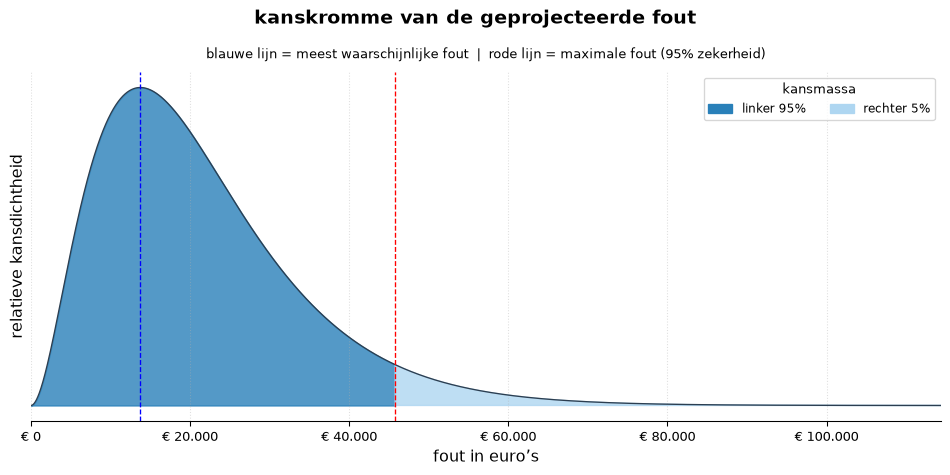
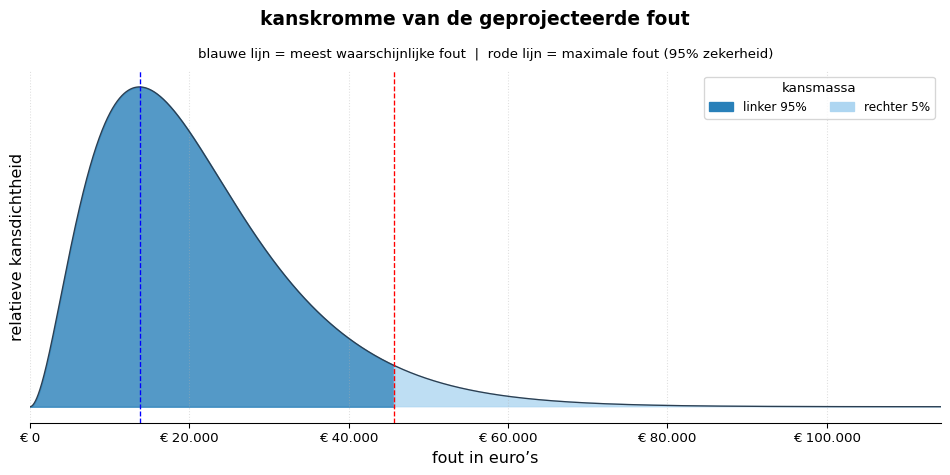
Extraheer n_klant_k_klant_SSO als herbruikbare helper
max_fout_benaderd_SSO berekende de effectieve steekproefomvang/aantal
fouten bij de klant (n_klant, k_klant) voorheen inline. Dit zet die
formule om in een losse, herbruikbare helperfunctie met eigen
invoervalidatie, zodat andere SSO-functies (zoals de nieuwe
gestratificeerde brug) dezelfde pooling-formule kunnen hergebruiken.

diff --git a/auditstat/sso/n_klant_k_klant_SSO.py b/auditstat/sso/n_klant_k_klant_SSO.py
@@ -1,0 +1,38 @@
+def n_klant_k_klant_SSO(n, k, N_klant):
+    """
+    Herleidt een effectieve steekproefomvang (n_klant) en een effectief
+    aantal fouten (k_klant) bij de klant, op basis van een steekproef bij
+    de SSO (n, k) en de omvang van de klantpopulatie (N_klant).
+
+    Dit combineert de bewijskracht van de SSO-steekproef met de omvang
+    van de klantpopulatie tot een enkele, kleinere effectieve steekproef
+    bij de klant zelf (n_klant <= min(n, N_klant)), met k_klant naar rato
+    verdeeld. Dit is dezelfde benadering als gebruikt in
+    max_fout_benaderd_SSO.
+
+    Parameters
+    ----------
+    n : int of float
+        Steekproefomvang bij de SSO.
+    k : int of float
+        Aantal fouten in de steekproef bij de SSO.
+    N_klant : int of float
+        Aantal posten bij de klant.
+
+    Returns
+    -------
+    tuple[float, float]
+        (n_klant, k_klant)
+    """
+    if n <= 0:
+        raise ValueError("n moet groter zijn dan 0.")
+    if N_klant <= 0:
+        raise ValueError("N_klant moet groter zijn dan 0.")
+    if k < 0:
+        raise ValueError("k mag niet negatief zijn.")
+    if k > n:
+        raise ValueError("k mag niet groter zijn dan n.")
+
+    n_klant = (n * N_klant) / (n + N_klant)
+    k_klant = (n_klant / n) * k
+    return n_klant, k_klant

diff --git a/tests/sso/test_n_klant_k_klant_SSO.py b/tests/sso/test_n_klant_k_klant_SSO.py
@@ -1,0 +1,36 @@
+import unittest
+
+from auditstat.sso.n_klant_k_klant_SSO import n_klant_k_klant_SSO
+
+
+class TestNKlantKKlantSSO(unittest.TestCase):
+    def test_formule(self):
+        n, k, N_klant = 100, 4, 100
+        n_klant, k_klant = n_klant_k_klant_SSO(n, k, N_klant)
+        self.assertAlmostEqual(n_klant, (n * N_klant) / (n + N_klant))
+        self.assertAlmostEqual(k_klant, (n_klant / n) * k)
+
+    def test_n_klant_kleiner_dan_n_en_N_klant(self):
+        n_klant, _ = n_klant_k_klant_SSO(n=200, k=0, N_klant=1500)
+        self.assertLess(n_klant, 200)
+        self.assertLess(n_klant, 1500)
+
+    def test_n_niet_positief(self):
+        with self.assertRaises(ValueError):
+            n_klant_k_klant_SSO(n=0, k=0, N_klant=100)
+
+    def test_N_klant_niet_positief(self):
+        with self.assertRaises(ValueError):
+            n_klant_k_klant_SSO(n=100, k=0, N_klant=0)
+
+    def test_k_negatief(self):
+        with self.assertRaises(ValueError):
+            n_klant_k_klant_SSO(n=100, k=-1, N_klant=100)
+
+    def test_k_groter_dan_n(self):
+        with self.assertRaises(ValueError):
+            n_klant_k_klant_SSO(n=100, k=101, N_klant=100)
+
+
+if __name__ == "__main__":
+    unittest.main()

diff --git a/auditstat/sso/max_fout_benaderd_SSO.py b/auditstat/sso/max_fout_benaderd_SSO.py
@@ -1,12 +1,13 @@
 from scipy import stats
 
+from auditstat.sso.n_klant_k_klant_SSO import n_klant_k_klant_SSO
+
 
 def max_fout_benaderd_SSO(n, k, N_klant, zekerheid=0.95, verdeling="binomiaal"):
     """
     Berekent de benaderde maximale foutfractie voor een SSO-klant.
     """
-    n_klant = (n * N_klant) / (n + N_klant)
-    k_klant = (n_klant / n) * k
+    n_klant, k_klant = n_klant_k_klant_SSO(n, k, N_klant)
 
     if verdeling == "binomiaal":
         # Vlakke prior (Beta(1,1)), posterior is Beta(k_klant+1, n_klant-k_klant+1)
